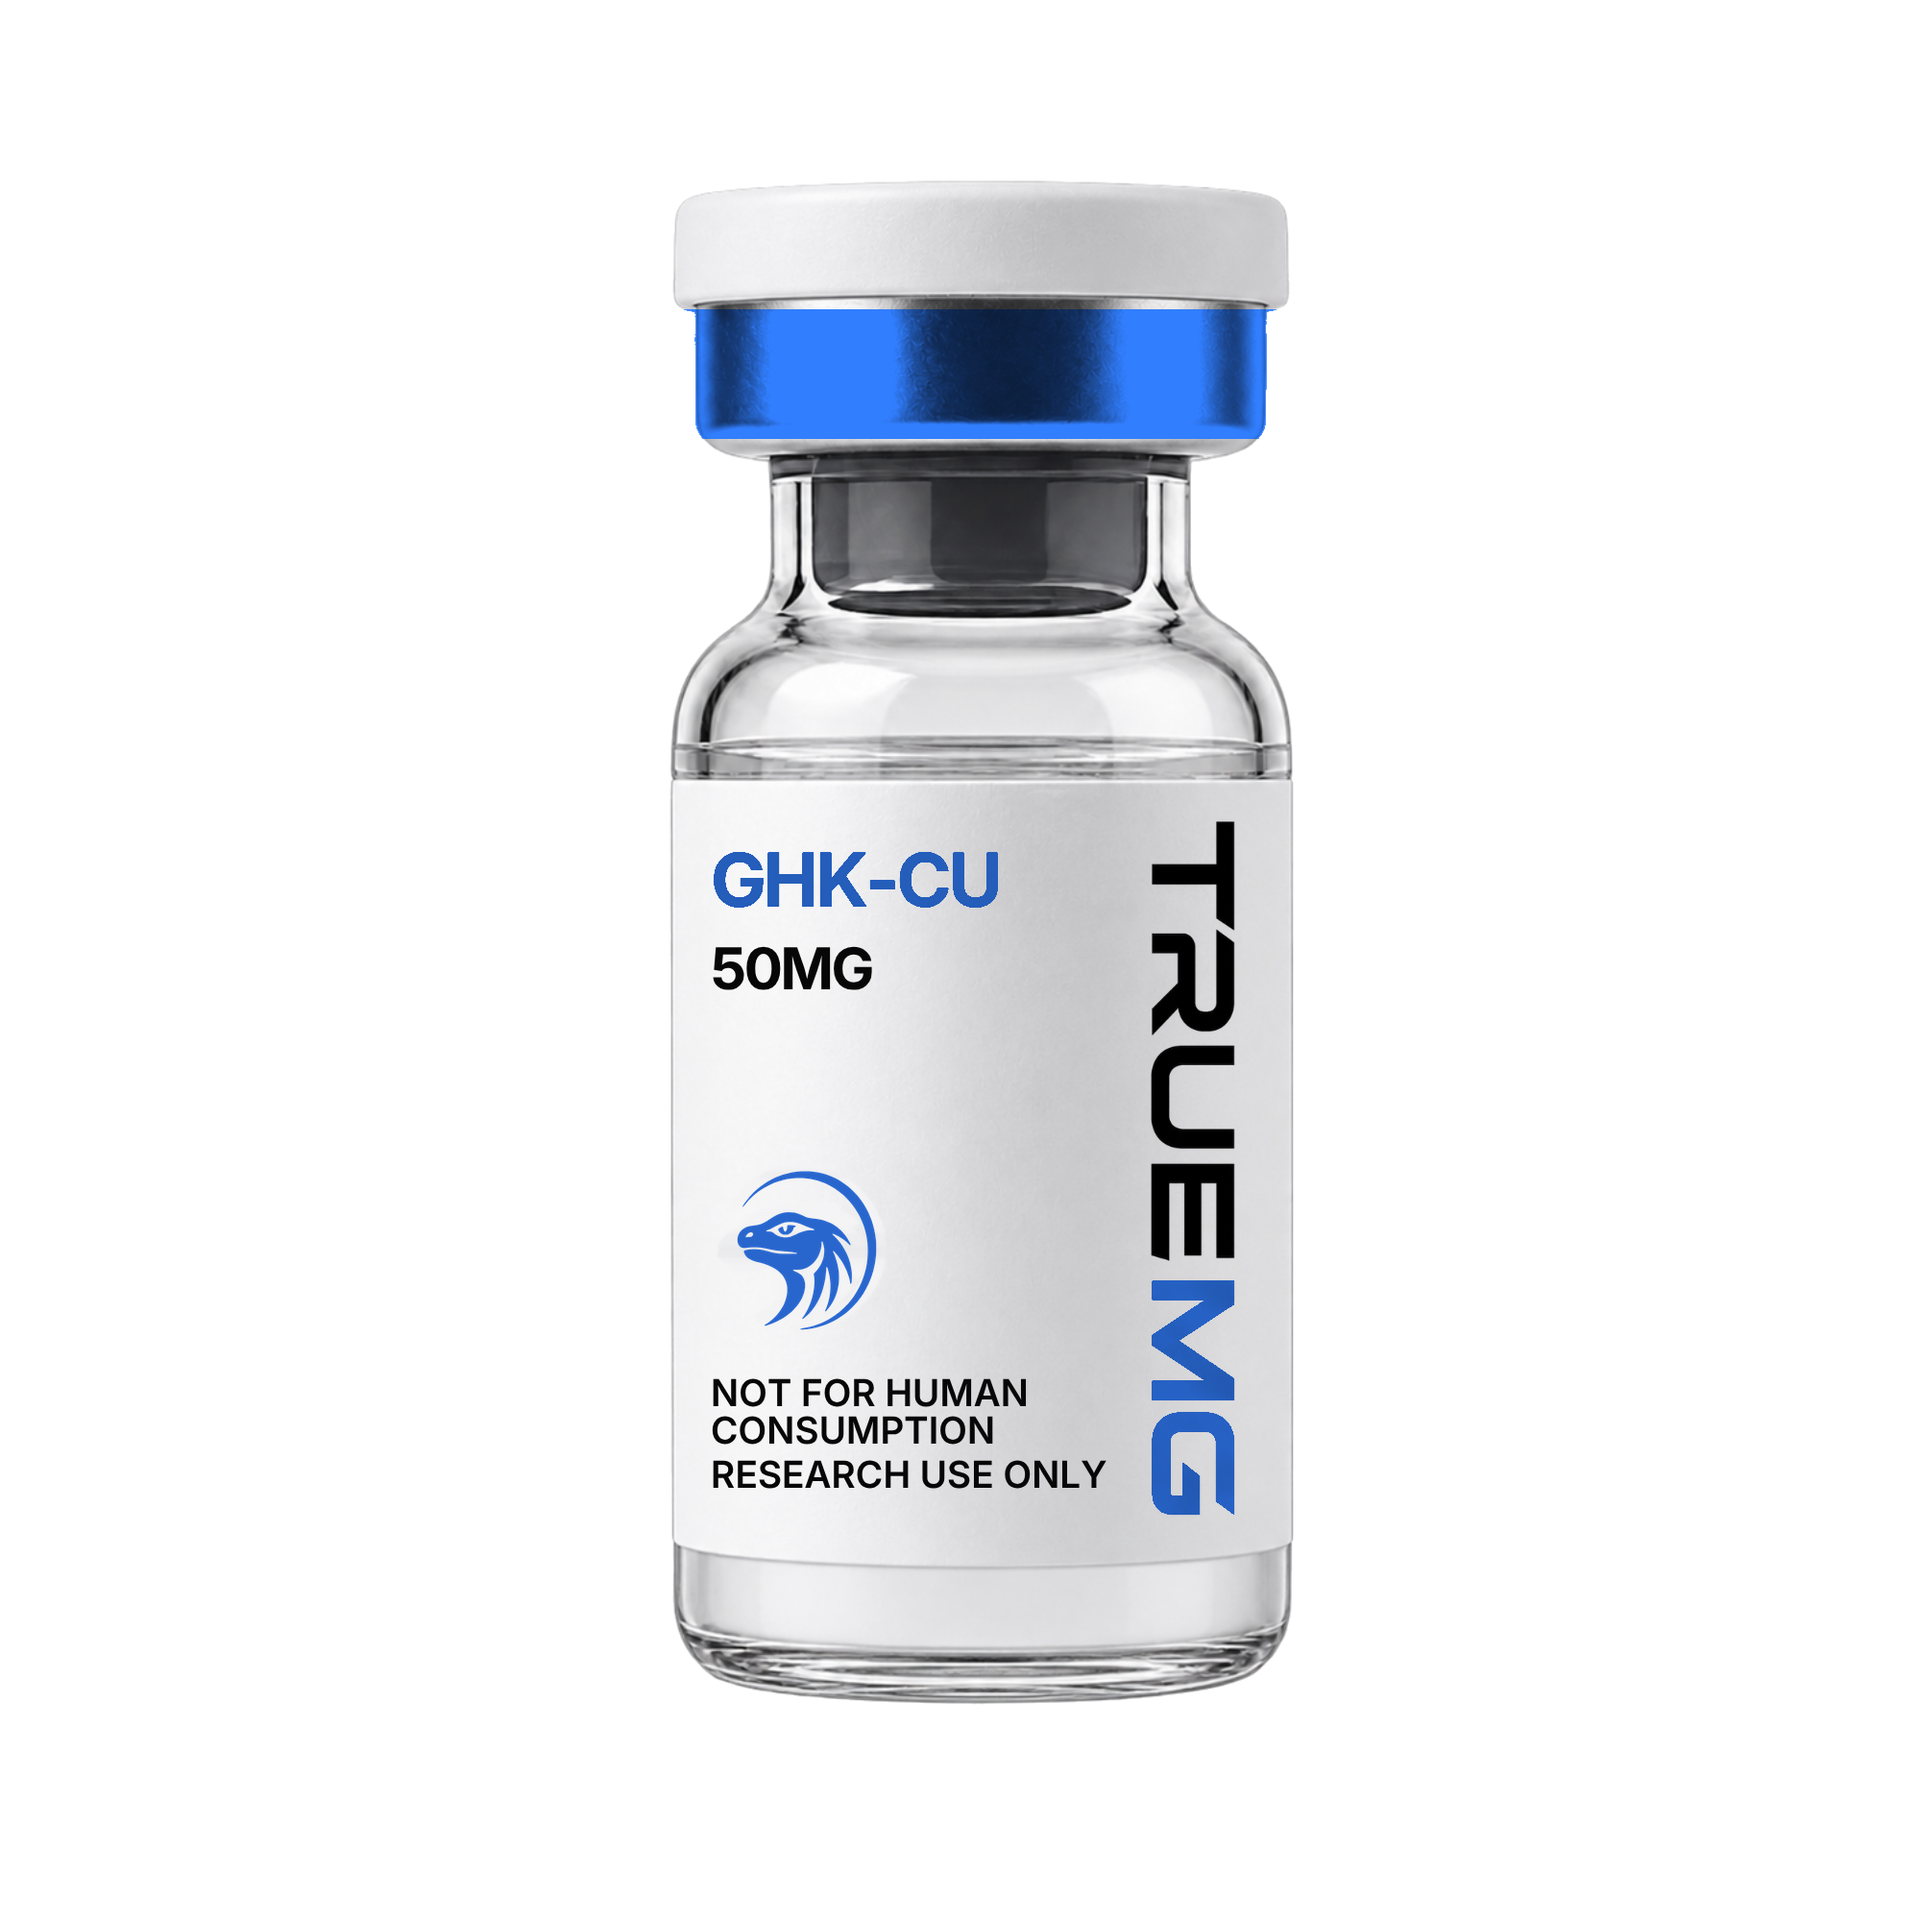
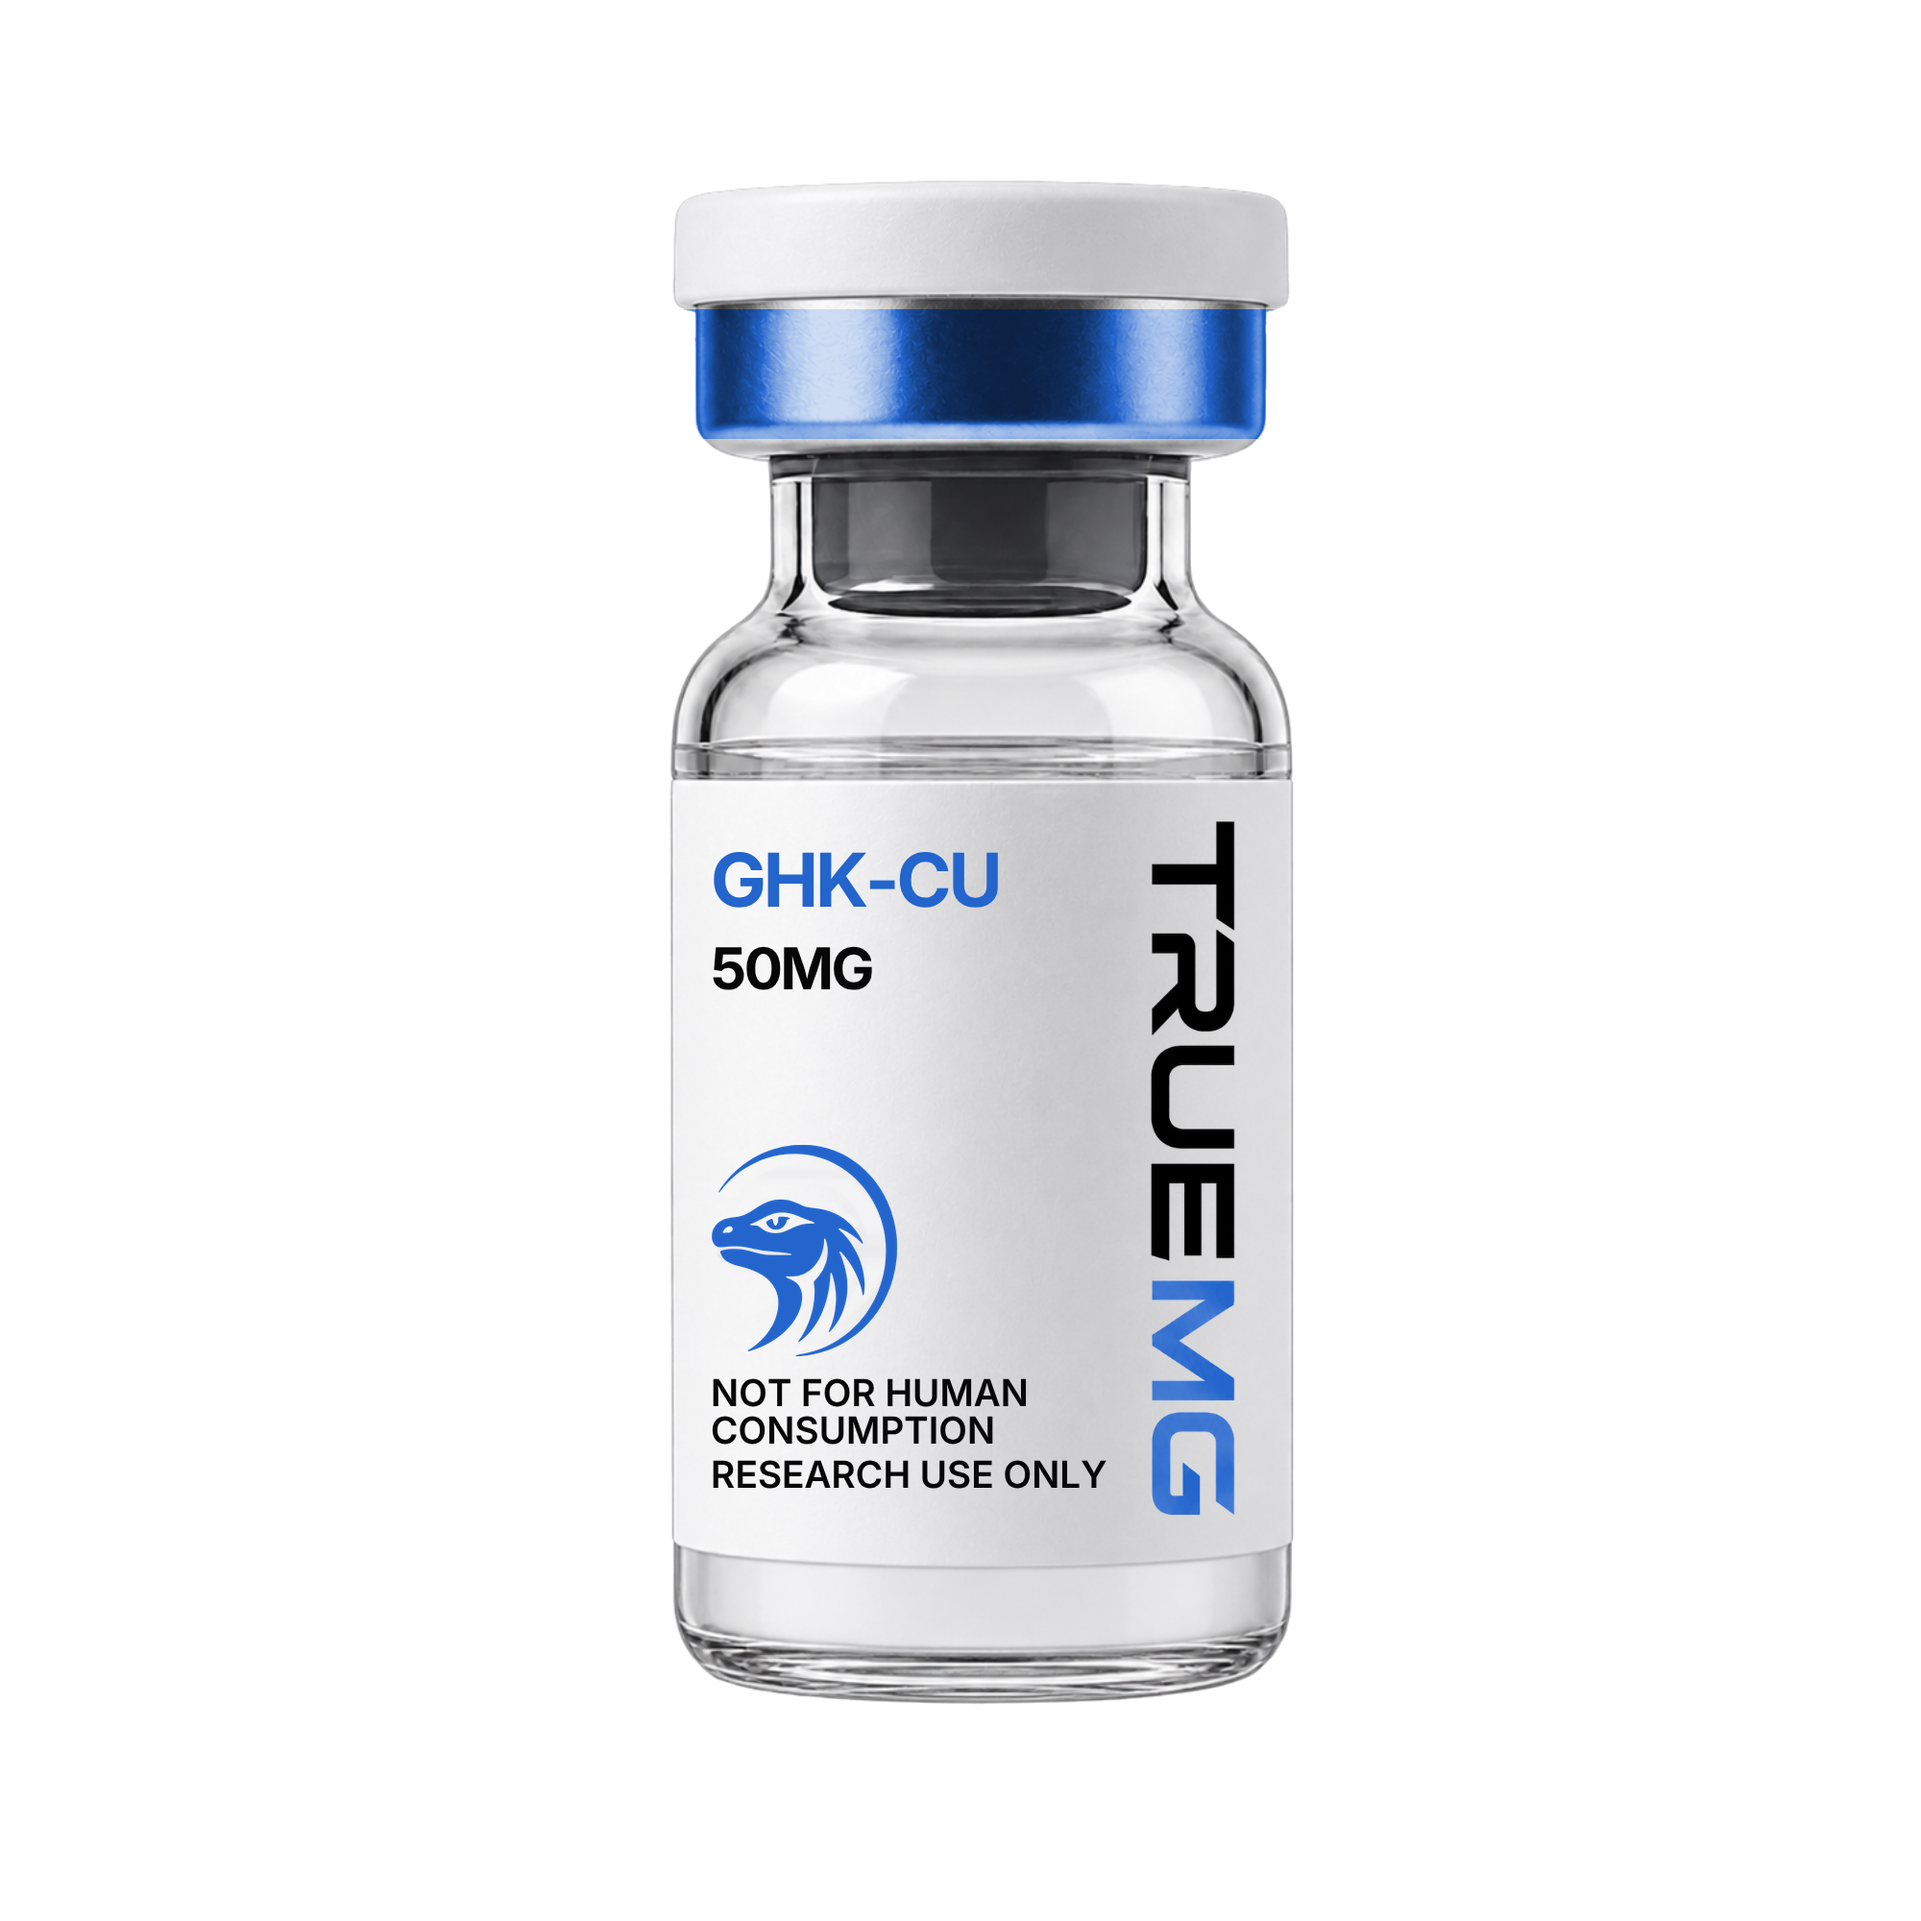
Rebuild all 17 vials on the real brand blue, #2365CD
The brand blue is #2365CD, sampled from the TRUEMG Labels artwork in Canva —
it is the literal fill on the product-name text there. Everything on the vials
was off it, in two different directions, and both were measured against the
original photographs rather than guessed at:

  product type   #2560C1   too dark and dull
  crimp band     #317EFF   a colour in no palette anywhere

Each had its own cause.

The type was darkened by `rebrand.py` multiplying the brand colour by each
pixel's own lightness, `0.55 + 0.45*lum`. That factor never exceeds 1, so the
result could only ever come out darker than the colour asked for.

The crimp was worse. `bluecrimp.py` scaled value so the band's MEAN hit the
target, then clamped at 1.0. Aluminium is full of specular highlight, so a
large part of the band clipped to V=1.0 — and at the brand's saturation that
is #2B7EFF. The neon was clipping, not a decision.

render.py replaces the cutout -> rebrand -> bluecrimp chain, which recoloured
already-recoloured output and compounded both errors. It runs from the original
photographs in one pass, and maps onto a ramp built from the brand colour so
the mid-tone lands on brand by construction:

  - Type is re-inked by coverage. An antialiased glyph edge is part paper, part
    ink; coverage is how far the pixel travelled from paper toward full ink, so
    re-inking walks that same distance toward the brand colour.
  - The crimp ramps dark -> brand -> specular on the band's own luminance,
[…]

Changed region(s): [[0.372, 0.155, 0.682, 0.248], [0.372, 0.589, 0.465, 0.713], [0.589, 0.713, 0.651, 0.775]]

diff --git a/truemg/assets/vials/render.py b/truemg/assets/vials/render.py
@@ -1,0 +1,148 @@
+"""Render the vial line from the original photographs in one pass.
+
+This replaces the old cutout -> rebrand -> bluecrimp chain, which recoloured
+already-recoloured output and drifted away from the brand blue twice over:
+
+  * the product type came out #2560C1 against #2365CD on the Canva artwork,
+    because `rebrand.py` multiplied the brand colour by each pixel's own
+    lightness (0.55 + 0.45*lum), which can only ever darken it;
+  * the crimp came out #317EFF, a colour in no palette anywhere, because
+    `bluecrimp.py` scaled value so the band's MEAN hit the target and then
+    clamped at 1.0. Aluminium is full of specular highlights, so a large part
+    of the band clipped to V=1.0 — and at the brand's saturation that is
+    #2B7EFF. The neon was clipping, not choice.
+
+Both are now mapped onto a ramp built from the brand colour itself, so the
+mid-tone lands exactly on brand and the extremes stay believable.
+
+Run from this directory, with the original photographs in cut/src/.
+"""
+import os
+import numpy as np
+from scipy import ndimage
+from PIL import Image, ImageFilter
+
+import cutout
+
+D = os.path.dirname(os.path.abspath(__file__)); os.chdir(D)
+
+BRAND = np.array([0x23, 0x65, 0xCD], float)   # #2365CD, sampled from the Canva labels
+LIZARD_BOX = (725, 1185, 950, 1420)           # old mark on the 2000px label, measured
+CRIMP = (0.085, 0.170)                        # aluminium band, as a fraction of height
+PAPER = np.array([246, 246, 247], float)      # the label stock
+
+
+def blue_mask(rgb):
+    """The printed blue: strongly blue-dominant, unlike white, black or grey."""
+    r, g, b = rgb[:, :, 0].astype(int), rgb[:, :, 1].astype(int), rgb[:, :, 2].astype(int)
+    return (b - r > 45) & (b - g > 25) & (b > 90)
+
+
+def ramp(t, dark, mid, light):
+    """Map t in [0,1] onto dark -> mid -> light, so t=0.5 lands exactly on mid."""
+    t = t[..., None]
+    lo = dark + (mid - dark) * np.clip(t * 2, 0, 1)
+    hi = mid + (light - mid) * np.clip((t - 0.5) * 2, 0, 1)
+    return np.where(t < 0.5, lo, hi)
+
+
+def recolour_type(a, mask):
+    """Printed ink: hold each pixel's coverage, swap the pigment for the brand.
+
+    Antialiased glyph edges are part paper, part ink. Coverage is how far the
+    pixel has travelled from the paper toward full ink, so re-inking it means
+    walking that same distance toward the brand colour instead."""
+    if not mask.any():
+        return
+    px = a[:, :, :3][mask].astype(float)
+    far = np.linalg.norm(PAPER - BRAND)
+    cov = np.clip(np.linalg.norm(PAPER - px, axis=1) / far, 0, 1)[:, None]
+    a[:, :, :3][mask] = np.clip(PAPER + (BRAND - PAPER) * cov, 0, 255).astype(np.uint8)
+
+
+def swap_mark(a, mark):
+    """Erase the old lizard, rebuilding the label's gradient, then drop the new one."""
+    x0, y0, x1, y1 = LIZARD_BOX
+    rgb = a[:, :, :3]
+    old = blue_mask(rgb)[y0:y1, x0:x1]
+    patch = rgb[y0:y1, x0:x1].copy()
+    if old.any():
+        grow = ndimage.binary_dilation(old, iterations=4)
+        clean = ~grow
+        glob = (np.median(patch[clean].reshape(-1, 3), axis=0)
+                if clean.any() else PAPER)
+        # the label carries a soft vertical gradient; a flat fill leaves a patch,
+        # so rebuild it row by row from the clean pixels on that row
+        for yy in range(patch.shape[0]):
+            if not grow[yy].any():
+                continue
+            src = patch[yy][clean[yy]]
+            fill = np.median(src, axis=0) if src.shape[0] >= 8 else glob
+            patch[yy][grow[yy]] = fill.astype(np.uint8)
+        sm = np.asarray(Image.fromarray(patch).filter(ImageFilter.GaussianBlur(2.5))).astype(float)
+        w = ndimage.gaussian_filter(grow.astype(float), 3.0)[..., None]
+        patch = np.clip(patch * (1 - w) + sm * w, 0, 255).astype(np.uint8)
+        a[y0:y1, x0:x1, :3] = patch
+
+    out = Image.fromarray(a, "RGBA")
+    bw, bh = x1 - x0, y1 - y0
+    m = mark.resize((int(bw * 0.94), int(bh * 0.94)), Image.LANCZOS)
+    out.alpha_composite(m, (x0 + (bw - m.width) // 2, y0 + (bh - m.height) // 2))
+    return out
+
+
+def recolour_crimp(im):
+    """Anodised blue aluminium: keep the metal's shading, change what it is made of.
+
+    The band's own luminance, normalised between its 2nd and 98th percentile,
+    drives a ramp from a deep shadow through the brand colour to a near-white
+    specular. Normalising on percentiles rather than the mean is what stops the
+    highlights piling up at full value and turning neon.
+    """
+    a = np.asarray(im).astype(float).copy()
+    al = a[:, :, 3] > 128
+    rows = np.where(al.any(axis=1))[0]
+    y0 = rows.min() + int((rows.max() - rows.min()) * CRIMP[0])
+    y1 = rows.min() + int((rows.max() - rows.min()) * CRIMP[1])
+    band, m = a[y0:y1, :, :3], al[y0:y1]
+    if not m.any():
+        raise SystemExit("empty crimp band")
+
+    # Anchor the ramp on the band's MEDIAN, not the midpoint of its range.
+    # Aluminium is a bright object: its luminance is bunched up near the top, so
+    # a midpoint anchor puts most of the band in the highlight half and the crimp
+    # reads as pale sky (#AAC3EB). Splitting at the median instead puts half the
+    # pixels either side of the brand colour, which is what makes it read as brand.
+    lum = band[..., :3].max(axis=2)
+    lo, med, hi = np.percentile(lum[m], (2, 50, 98))
+    v = lum[m]
+    t = np.where(v < med,
+                 0.5 * (v - lo) / max(med - lo, 1e-6),
+                 0.5 + 0.5 * (v - med) / max(hi - med, 1e-6))
+    t = np.clip(t, 0, 1)
+
+    dark = BRAND * 0.34                      # the shadowed underside of the band
+    light = BRAND + (255 - BRAND) * 0.78     # the specular along its crown
+    band[m] = np.clip(ramp(t, dark, BRAND, light), 0, 255)
+    a[y0:y1, :, :3] = band
+    return Image.fromarray(a.clip(0, 255).astype(np.uint8), "RGBA")
+
+
+def render(name, mark):
+    img, _ = cutout.cut("cut/src/" + name)
+    a = np.asarray(img).astype(np.uint8).copy()
+
+    x0, y0, x1, y1 = LIZARD_BOX
+    inbox = np.zeros(a.shape[:2], bool); inbox[y0:y1, x0:x1] = True
+    recolour_type(a, blue_mask(a[:, :, :3]) & ~inbox)
+
+    return recolour_crimp(swap_mark(a, mark))
+
+
+if __name__ == "__main__":
+    mark = Image.open("mark-2365CD.png").convert("RGBA")
+    names = sorted(os.listdir("cut/src"))
+    for n in names:
+        render(n, mark).save(n)
+        print("  rendered", n)
+    print("done:", len(names))
